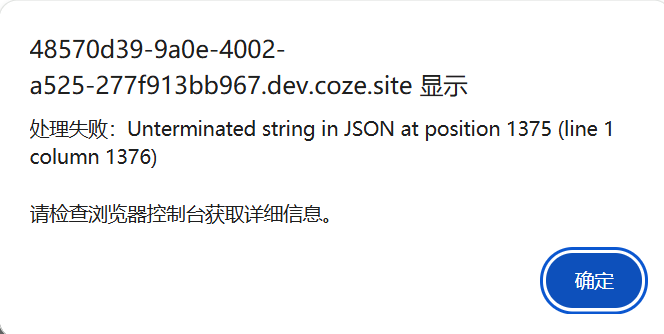
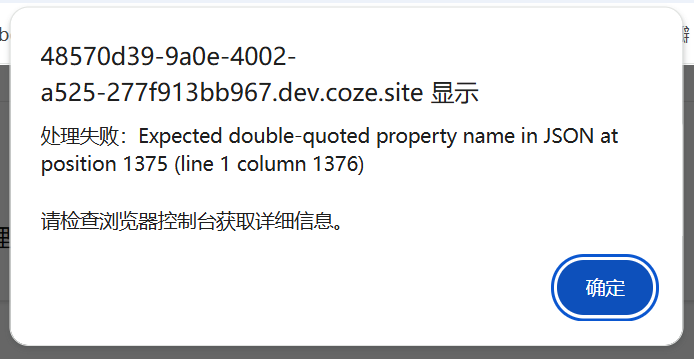
fix: 修复调试台的 SSE 流解析问题，使用与工作台一致的健壮解析方式

diff --git a/src/app/debug/page.tsx b/src/app/debug/page.tsx
@@ -891,6 +891,7 @@ export default function WikiDebugPage() {
 
         const decoder = new TextDecoder();
         let eventCount = 0;
+        let fullSSEContent = '';  // 收集完整的 SSE 内容
 
         logInfo('开始读取SSE流...');
 
@@ -901,37 +902,79 @@ export default function WikiDebugPage() {
             break;
           }
 
-          const chunk = decoder.decode(value);
-          const lines = chunk.split('\n');
+          const chunk = decoder.decode(value, { stream: true });
+          fullSSEContent += chunk;
+        }
 
-          for (const line of lines) {
-            if (line.startsWith('event:')) {
-              const event = line.slice(6).trim();
-              const nextLine = lines[lines.indexOf(line) + 1];
-              if (nextLine?.startsWith('data:')) {
-                try {
-                  const data = JSON.parse(nextLine.slice(5));
-                  eventCount++;
-                  logInfo(`收到事件 ${eventCount}: ${event}`, data);
+        // 使用更健壮的 SSE 解析逻辑（与工作台一致）
+        logInfo('开始解析 SSE 流...');
 
-                  if (event === 'debug_complete') {
-                    logInfo('✓ Debug模式完成，面板数据:', data.debugPanels);
-                    setDebugPanels(data.debugPanels);
-                    // 设置图片URL - 使用正确的API路由
-                    setImageUrl(`/api/uploads/wiki/${uploadedFilename}`);
-                    logInfo('✓ 图片URL已设置:', `/api/uploads/wiki/${uploadedFilename}`);
-                  } else if (event === 'error') {
-                    console.error('✗ 收到错误事件:', data);
-                    throw new Error(data.message || '处理过程中发生错误');
-                  }
-                } catch (e) {
-                  console.error('Failed to parse SSE data:', e, 'Line:', nextLine);
-                  if (e instanceof Error && e.message !== 'Failed to parse SSE data') {
-                    throw e; // 重新抛出解析错误以外的错误
-                  }
-                }
+        // 按 SSE 协议规范解析：每个事件以 "event:" 开头，以空行结束
+        const lines = fullSSEContent.split('\n');
+        let currentEvent = '';
+        let currentData = '';
+        let isReadingData = false;
+
+        for (const line of lines) {
+          const trimmedLine = line.trim();
+
+          if (trimmedLine.startsWith('event:')) {
+            currentEvent = trimmedLine.substring(6).trim();
+            currentData = '';
+            isReadingData = false;
+          } else if (trimmedLine.startsWith('data:')) {
+            currentData = trimmedLine.substring(5).trim();
+            isReadingData = true;
+          } else if (trimmedLine === '' && currentEvent && currentData) {
+            // 空行表示事件结束，处理当前事件
+            try {
+              const data = JSON.parse(currentData);
+              eventCount++;
+              logInfo(`收到事件 ${eventCount}: ${currentEvent}`, data);
+
+              if (currentEvent === 'debug_complete') {
+                logInfo('✓ Debug模式完成，面板数据:', data.debugPanels);
+                setDebugPanels(data.debugPanels);
+                // 设置图片URL - 使用正确的API路由
+                setImageUrl(`/api/uploads/wiki/${uploadedFilename}`);
+                logInfo('✓ 图片URL已设置:', `/api/uploads/wiki/${uploadedFilename}`);
+              } else if (currentEvent === 'error') {
+                console.error('✗ 收到错误事件:', data);
+                throw new Error(data.message || '处理过程中发生错误');
               }
+            } catch (e) {
+              console.error(`Failed to parse SSE data for event ${currentEvent}:`, e, '原始数据:', currentData.substring(0, 100));
+              throw e;
             }
+
+            currentEvent = '';
+            currentData = '';
+            isReadingData = false;
+          } else if (isReadingData && trimmedLine.startsWith('{')) {
+            // 多行 JSON 数据（虽然当前后端不使用，但为了兼容性）
+            currentData += '\n' + trimmedLine;
+          }
+        }
+
+        // 处理最后一个事件（如果没有空行结束）
+        if (currentEvent && currentData) {
+          try {
+            const data = JSON.parse(currentData);
+            eventCount++;
+            logInfo(`收到事件 ${eventCount}: ${currentEvent}`, data);
+
+            if (currentEvent === 'debug_complete') {
+              logInfo('✓ Debug模式完成，面板数据:', data.debugPanels);
+              setDebugPanels(data.debugPanels);
+              setImageUrl(`/api/uploads/wiki/${uploadedFilename}`);
+              logInfo('✓ 图片URL已设置:', `/api/uploads/wiki/${uploadedFilename}`);
+            } else if (currentEvent === 'error') {
+              console.error('✗ 收到错误事件:', data);
+              throw new Error(data.message || '处理过程中发生错误');
+            }
+          } catch (e) {
+            console.error(`Failed to parse SSE data for event ${currentEvent}:`, e, '原始数据:', currentData.substring(0, 100));
+            throw e;
           }
         }
 
